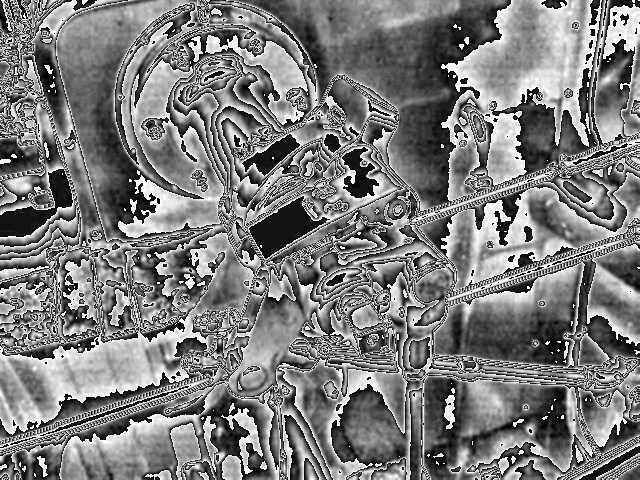
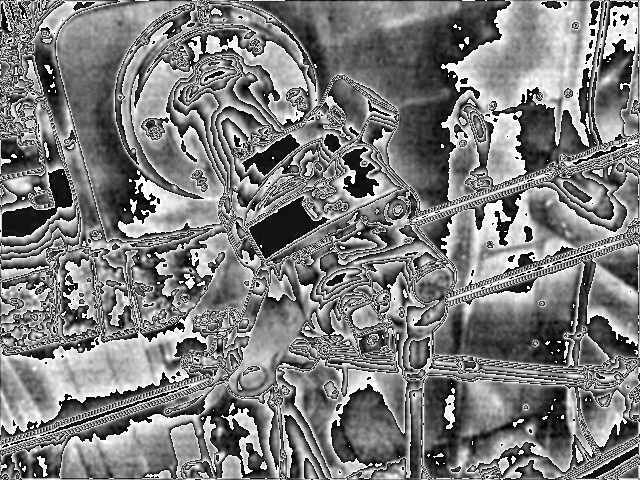
fixed sobel operator

diff --git a/BitImage/CannyEdgeDetection.py b/BitImage/CannyEdgeDetection.py
@@ -1,4 +1,5 @@
 import numpy as np 
+import matplotlib.pyplot as plt
 import math
 
 class cannyEdge:
@@ -34,9 +35,10 @@ class cannyEdge:
                 bott = 2*sigma**2
                 kernel[i,j] = np.exp(-top/bott)
         kernel *= 1/(2*math.pi*sigma**2)
+
         return kernel
 
-    def Sobel_operator(self, img):
+    def Sobel_operator(self, img, show = True):
         kernel_x = np.array([
             [-1, 0, 1],
             [-2, 0, 2],
@@ -44,19 +46,36 @@ class cannyEdge:
         ])
 
         kernel_y = np.array([
-            [ 1,  2,  1],
-            [ 0,  0,  0],
             [-1, -2, -1],
+            [ 0,  0,  0],
+            [ 1,  2,  1],
         ])
         G_x = self.conv(img, kernel_x)
+        # If show is True then show the image
+        if show:
+            plt.imshow(G_x, cmap='gray')
+            plt.title("Horizontal Edge")
+            plt.show()
+
         G_y = self.conv(img, kernel_y)
+        # If show is True then show the image
+        if show:
+            plt.imshow(G_y, cmap='gray')
+            plt.title("vertical Edge")
+            plt.show()
 
-        G1 = np.sqrt(G_x**2 + G_y**2)
-        G2 = G_x**2 + G_y**2
-        return G1, G2 # TODO there is an major issue here!!
+        #G_return =  np.sqrt(np.square(G_x) + np.square(G_y))
+        #G_return *= 255.0 / G_return.max()
+        G_return = np.zeros(img.shape)
+
+        for i in range(img.shape[0]):
+            for j in range(img.shape[1]):
+                G_return[i,j] = (G_x[i,j]**2+G_y[i,j]**2)**(1/2)
+                
+        return G_return 
 
 
-    def conv(self, img, kernel):
+    def conv(self, img, kernel, Extend=False):
         """
         Function that convoludes the image as follows
         img[i,j] = sum_m^n b[m,n]*img[i+m,j+n]
@@ -65,10 +84,10 @@ class cannyEdge:
         if not all([isinstance(img, np.ndarray), 
                     isinstance(kernel, np.ndarray)]):
             return -1
-   
+        #kernel = np.flipud(np.fliplr(kernel))
         # Dimensions of the original image
-        m = img.shape[0]
-        n = img.shape[1]
+        h_img = img.shape[0]
+        w_img = img.shape[1]
 
         # Error Checking - kernel must be square
         if kernel.shape[0]!=kernel.shape[1]:
@@ -83,24 +102,17 @@ class cannyEdge:
             return -2
 
         # Zero-padding the image
-        img_padded = np.zeros((m+kernel_size-1,n+kernel_size-1))
+        img_padded = np.zeros((h_img+kernel_size-1,w_img+kernel_size-1))
         img_padded[k:-k,k:-k] = img
-        img_padded[0:k, 0:k] = img[0,0]
-        img_padded[0:k, -k:] = img[0,-1]
-        img_padded[-k:, 0:k] = img[-1,0]
-        img_padded[-k:, -k:] = img[-1,-1]
-        for i in range(k):
-            img_padded[k:-k, i]  = img[:,0]
-            img_padded[k:-k, -i-1] = img[:,-1]
-            img_padded[i, k:-k]  = img[0, :]
-            img_padded[-i-1, k:-k] = img[-1, :]
-
+       
         # Initialize output image
         out_img = np.zeros_like(img)
 
         # Image convolution
-        for i in range(m):
-            for j in range(n):
-               out_img[i,j] = (kernel*img_padded[i:i+kernel_size,j:j+kernel_size]).sum()
+        for row in range(h_img):
+            for col in range(w_img):
+                for i in range(kernel_size):
+                    for j in range(kernel_size):
+                        out_img[row,col]+=img_padded[row+i,col+j]*kernel[i,j]
 
         return out_img

diff --git a/BitImage/main.py b/BitImage/main.py
@@ -1,6 +1,9 @@
-import cv2
+import cv2 
 import numpy as np 
 from CannyEdgeDetection import cannyEdge
+import matplotlib.pyplot as plt
+import matplotlib.image as mpimg
+
 # Reading an image in default mode 
 img = cv2.imread('Valve.png', 0)
 
@@ -8,12 +11,12 @@ img_shape = img.shape
 
 cd = cannyEdge()
 
-gauss =  cd.GaussFilter(5)
-res = cd.conv(img,gauss)
+gauss =  cd.GaussFilter(3)
+res = cd.conv(img, gauss)
 
-g1, g2 = cd.Sobel_operator(img)
+edge = cd.Sobel_operator(res)
 
-print(type(g1), type(g2))
-#cv2.imwrite('imageConv.jpg',10*res)
-#cv2.imwrite('imageConv2.jpg', img_sobel)
+plt.imshow(edge, cmap='gray')
+#plt.title("vertical Edge")
+plt.show()
 

diff --git a/BitImage/test.py b/BitImage/test.py
@@ -4,5 +4,5 @@ img = np.array([[1,2,1],[2,3,2],[1,2,1]])
 
 
 
-print(np.sqrt(img**2+img))
+print(np.sqrt(np.abs(img**2+img**2)))
 
